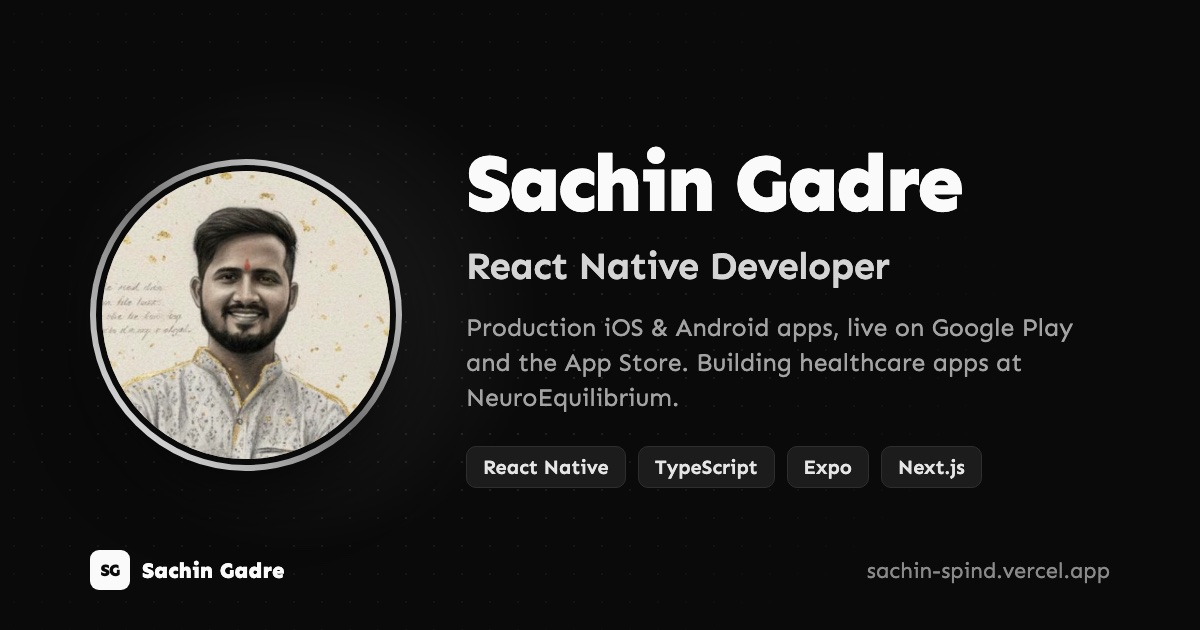
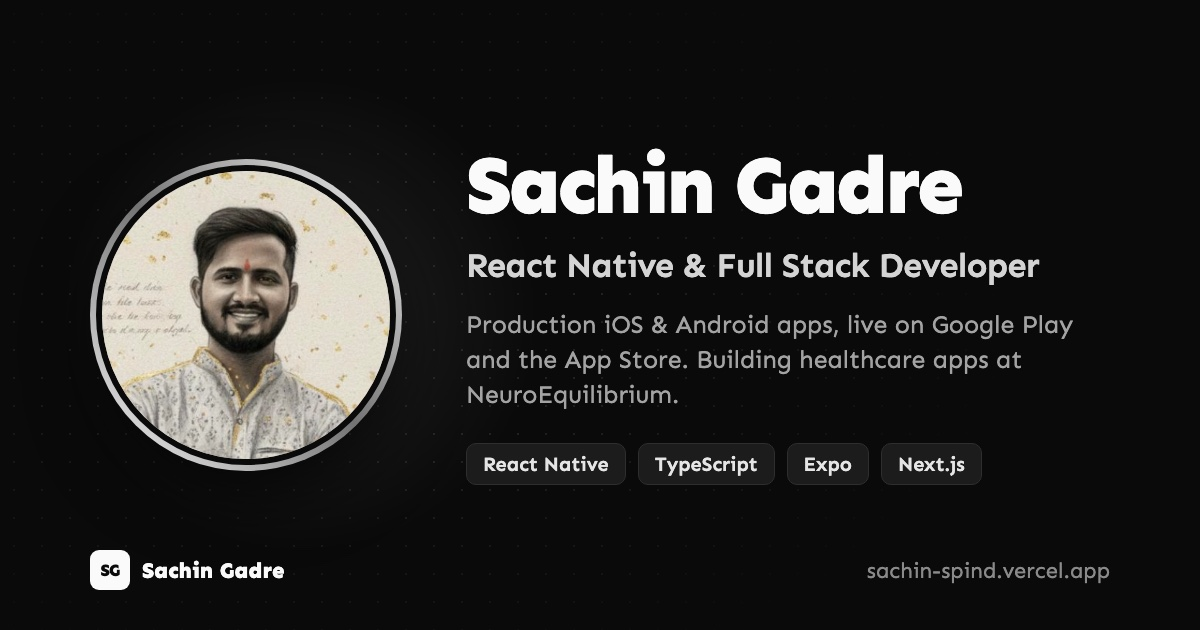
feat: Add blog post on improving PDF loading performance in React Native and update related metadata

diff --git a/src/data/resume.tsx b/src/data/resume.tsx
@@ -3,14 +3,15 @@ import { HomeIcon, NotebookIcon, SmartphoneIcon } from "lucide-react";
 
 export const DATA = {
   name: "Sachin Gadre",
+  alternateNames: ["Sachin Gadare", "Sachin Spind", "Spind"],
   initials: "SG",
   url: "https://sachin-spind.vercel.app",
   location: "Jaipur, India",
   locationLink: "https://www.google.com/maps/place/jaipur",
   description:
-    "React Native Developer. I build production iOS and Android apps, currently healthcare apps at NeuroEquilibrium.",
+    "React Native and full stack developer. I build production iOS and Android apps and web apps, currently healthcare apps at NeuroEquilibrium.",
   summary:
-  "React Native developer building production iOS and Android apps, currently on healthcare products at NeuroEquilibrium with React Native 0.84, TypeScript and Redux. Improved app performance by 60% and shipped releases that grew new users by 10%. Built [Tap In Shorts](/#projects) and [ZimCupid](/#projects), both live on Google Play and the App Store, and built Code Emergency with AIIMS Bhopal for emergency medical teams. I hold a [Master's degree in Computer Applications (MCA)](/#education).",
+  "React Native and full stack software developer building production iOS and Android apps, currently on healthcare products at NeuroEquilibrium with React Native 0.84, TypeScript and Redux. Improved app performance by 60% and shipped releases that grew new users by 10%. Built [Tap In Shorts](/#projects) and [ZimCupid](/#projects), both live on Google Play and the App Store, and built Code Emergency with AIIMS Bhopal for emergency medical teams. Beyond mobile, I build full stack web apps with Next.js, Node.js, Express and MongoDB. I hold a [Master's degree in Computer Applications (MCA)](/#education). You may also know me as Sachin Gadare or Sachin Spind.",
   avatarUrl: "/avatar.jpg",
   skills: [
     "React Native",

diff --git a/src/app/layout.tsx b/src/app/layout.tsx
@@ -15,9 +15,9 @@ const fontSans = FontSans({
   variable: "--font-sans",
 });
 
-const SEO_TITLE = `${DATA.name} – React Native Developer`;
+const SEO_TITLE = `${DATA.name} – React Native & Full Stack Developer`;
 const SEO_DESCRIPTION =
-  "Sachin Gadre is a React Native developer in Jaipur, India, building production iOS and Android apps with React Native, Expo and TypeScript. Currently building healthcare apps at NeuroEquilibrium.";
+  "Sachin Gadre (Sachin Spind) is a React Native and full stack developer in Jaipur, India, building iOS, Android and web apps with React Native and Next.js.";
 
 export const metadata: Metadata = {
   metadataBase: new URL(DATA.url),
@@ -30,15 +30,35 @@ export const metadata: Metadata = {
   authors: [{name: DATA.name, url: DATA.url}],
   creator: DATA.name,
   keywords: [
+    // Name variants
     "Sachin Gadre",
+    "Sachin Gadare",
+    "Sachin Spind",
+    "Spind",
+    "sachinspind",
+    // Roles
     "React Native developer",
-    "React Native developer Jaipur",
-    "mobile app developer India",
+    "React Native app developer",
+    "mobile app developer",
+    "app developer",
+    "full stack developer",
+    "software developer",
+    "software engineer",
+    "IT developer",
+    "web developer",
+    "Next.js developer",
+    "Node.js developer",
     "iOS developer",
     "Android developer",
-    "Expo",
-    "TypeScript",
-    "Next.js developer",
+    // Location and intent
+    "React Native developer Jaipur",
+    "app developer Jaipur",
+    "full stack developer India",
+    "software developer India",
+    "hire React Native developer",
+    "best React Native developer",
+    "best app developer",
+    "best developer",
   ],
   icons: {
     icon: [

diff --git a/src/app/page.tsx b/src/app/page.tsx
@@ -24,9 +24,15 @@ const jsonLd = {
       "@type": "Person",
       "@id": `${DATA.url}/#person`,
       name: DATA.name,
+      alternateName: DATA.alternateNames,
       url: DATA.url,
       image: `${DATA.url}${DATA.avatarUrl}`,
-      jobTitle: "React Native Developer",
+      jobTitle: [
+        "React Native Developer",
+        "Full Stack Developer",
+        "Mobile App Developer",
+        "Software Developer",
+      ],
       description: DATA.summary.replace(/\[([^\]]+)\]\([^)]+\)/g, "$1"),
       email: `mailto:${DATA.contact.email}`,
       address: {
@@ -87,7 +93,7 @@ export default function Page() {
               <div className="rounded-full bg-gradient-to-tr from-foreground via-muted-foreground to-foreground p-[3px] shadow-lg">
                 <Avatar className="size-28 border-[3px] border-background">
                   <AvatarImage
-                    alt={DATA.name}
+                    alt={`${DATA.name}, React Native and full stack developer`}
                     src={DATA.avatarUrl}
                     className="object-cover"
                   />

diff --git a/src/app/blog/[slug]/page.tsx b/src/app/blog/[slug]/page.tsx
@@ -1,7 +1,9 @@
 import { getPost } from "@/data/blog";
 import { DATA } from "@/data/resume";
 import { formatDate } from "@/lib/utils";
+import { ArrowLeftIcon } from "lucide-react";
 import type { Metadata } from "next";
+import Link from "next/link";
 import { notFound } from "next/navigation";
 import { Suspense } from "react";
 
@@ -86,10 +88,19 @@ export default async function Blog({
             author: {
               "@type": "Person",
               name: DATA.name,
+              alternateName: DATA.alternateNames,
+              url: DATA.url,
             },
           }),
         }}
       />
+      <Link
+        href="/blog"
+        className="group mb-6 inline-flex items-center gap-1.5 text-sm text-muted-foreground transition-colors hover:text-foreground"
+      >
+        <ArrowLeftIcon className="size-4 transition-transform group-hover:-translate-x-0.5" />
+        Back to blogs
+      </Link>
       <h1 className="title text-4xl font-bold tracking-tighter max-w-[650px]">
         {post.metadata.title}
       </h1>
